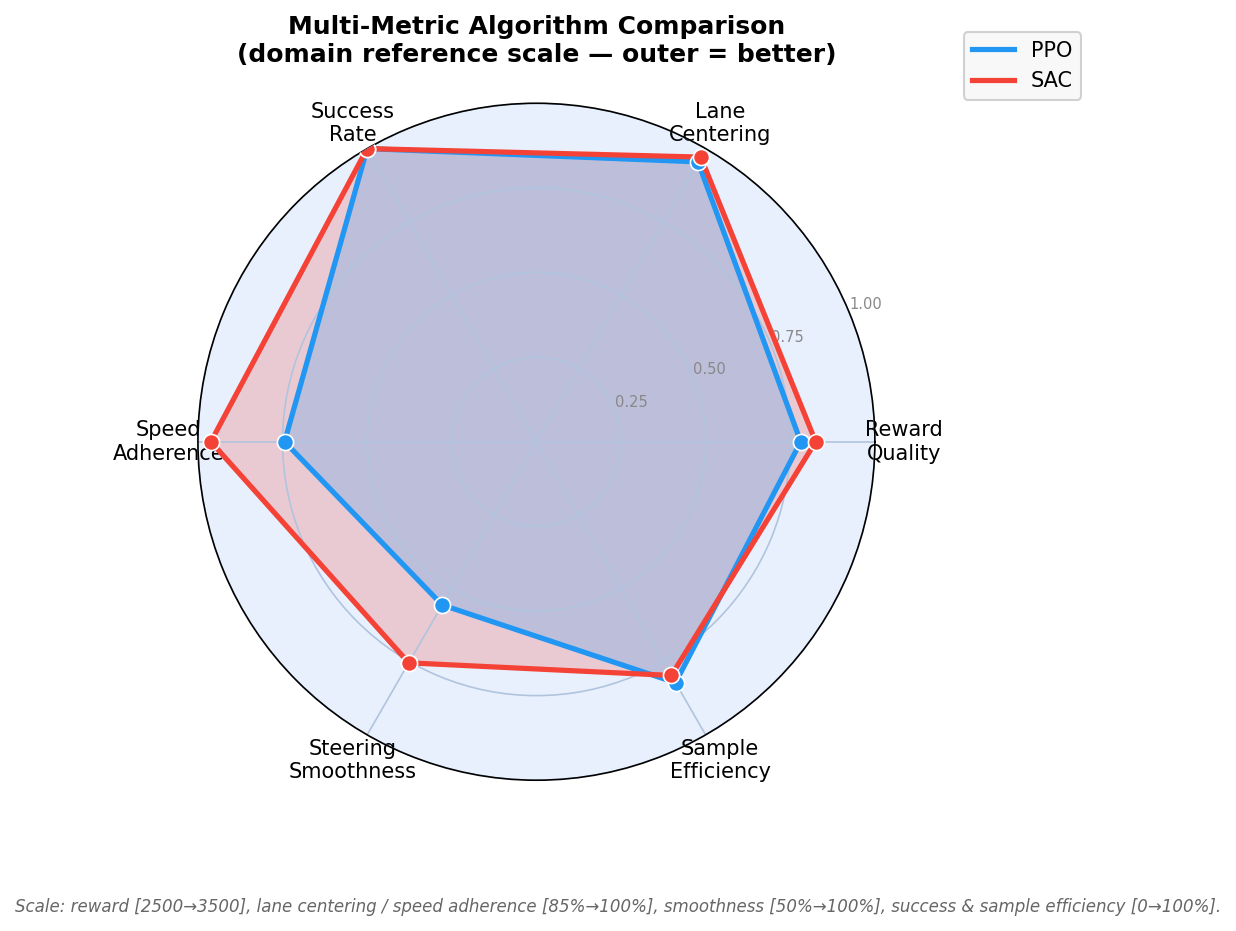
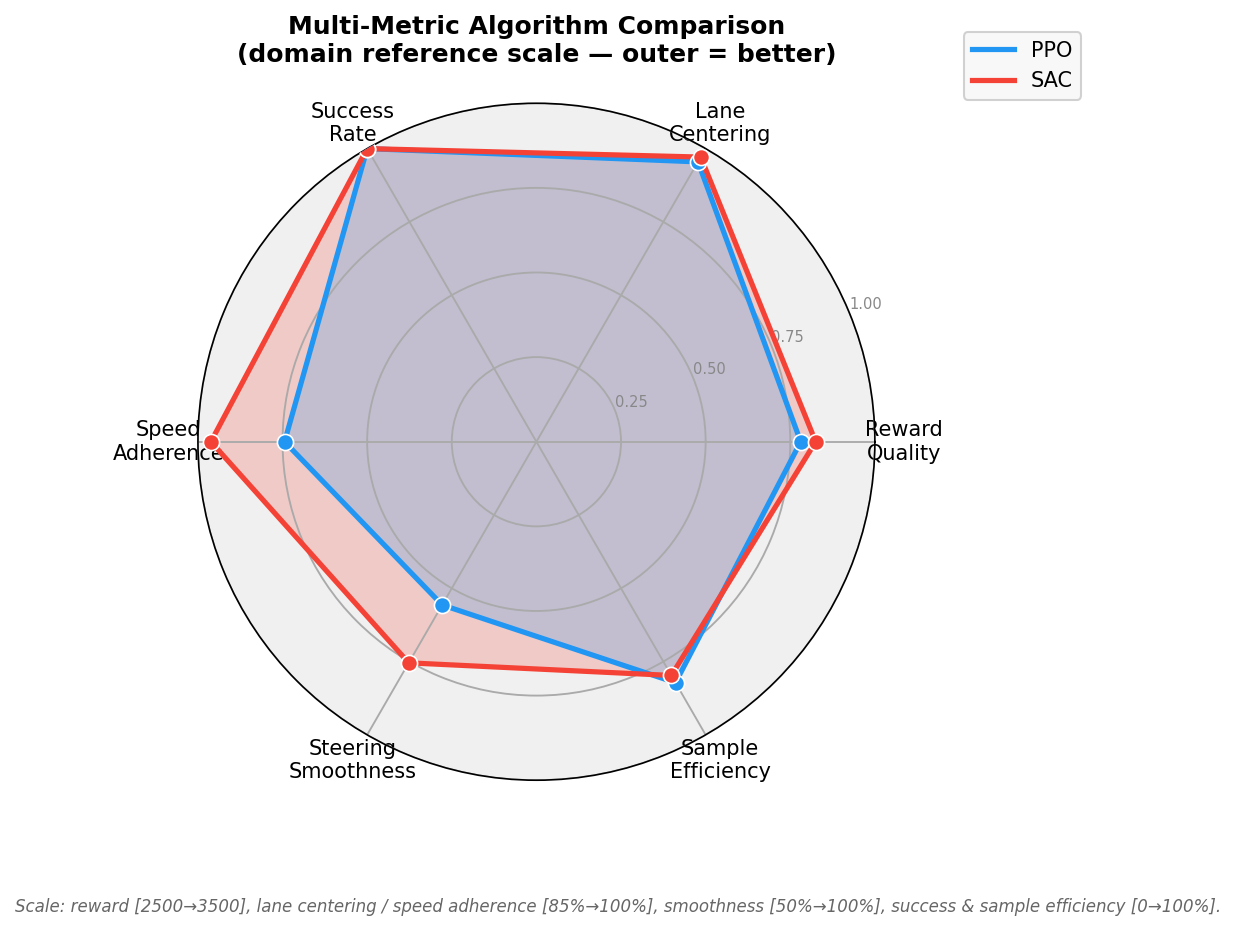
style(radar_chart): neutral gray background with visible grid lines

diff --git a/scripts/plot_metrics.py b/scripts/plot_metrics.py
@@ -750,8 +750,8 @@ def plot_radar_chart(outdir, window=20):
     ax.set_yticklabels(["0.25", "0.50", "0.75", "1.00"], fontsize=7, color="#888888")
     ax.set_xticks(angles[:-1])
     ax.set_xticklabels(categories, fontsize=10)
-    ax.grid(color="#B0C4DE", linewidth=0.8)
-    ax.set_facecolor("#E8F0FE")
+    ax.grid(color="#AAAAAA", linewidth=0.9)
+    ax.set_facecolor("#F0F0F0")
 
     ax.legend(loc="upper right", bbox_to_anchor=(1.32, 1.12), fontsize=10)
     ax.set_title(
